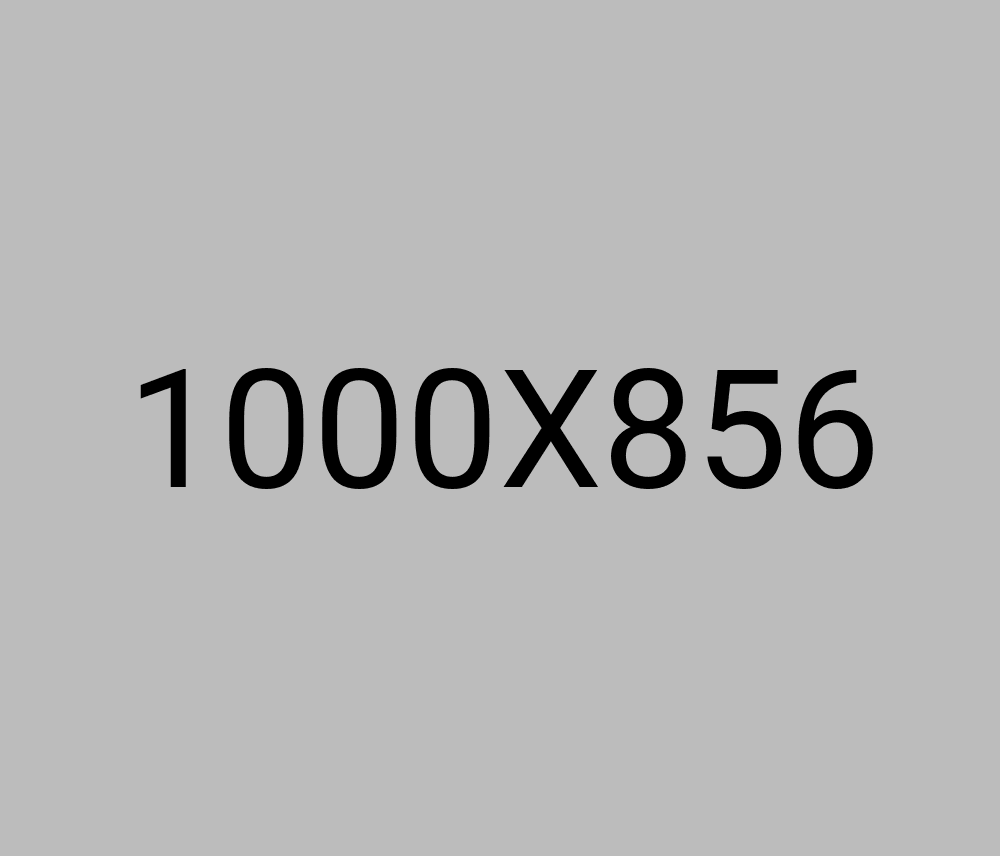
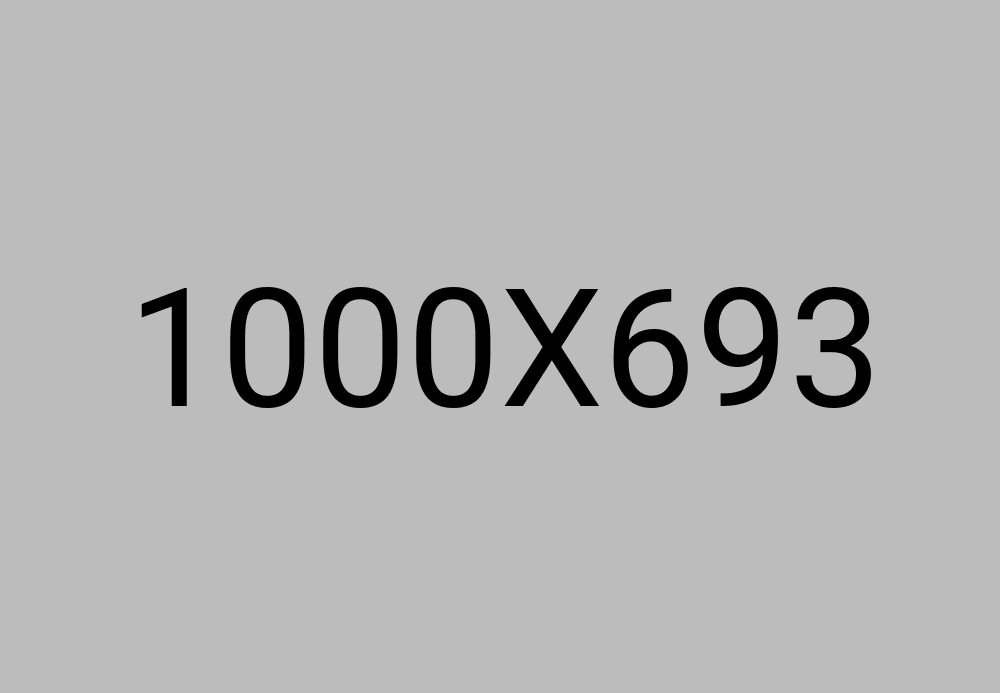
Add DB migration to rescue broken map pins with a valid image

Changed region(s): [[0.217, 0.3939, 0.868, 0.6061], [0.124, 0.4242, 0.186, 0.4848], [0.155, 0.5455, 0.186, 0.6061]]

diff --git a/server.js b/server.js
@@ -333,6 +333,26 @@ async function initDatabases() {
           await panlePool.query('INSERT INTO map_pins (title, description, image_path, lat, lng) VALUES (?, ?, ?, ?, ?)', pin);
         }
       }
+
+      // Migrate any broken pins pointing to deleted ephemeral uploads
+      try {
+        const [oldPins] = await panlePool.query('SELECT * FROM map_pins WHERE image_path LIKE "pannl/uploads/%"');
+        if (oldPins.length > 0) {
+          const fs = require('fs');
+          const path = require('path');
+          const sharp = require('sharp');
+          const fallbackImg = path.join(__dirname, 'assets', 'images', 'about.jpg');
+          if (fs.existsSync(fallbackImg)) {
+            const buffer = await sharp(fallbackImg).resize(800, 600, {fit: 'cover'}).jpeg({quality: 90}).toBuffer();
+            const base64Data = buffer.toString('base64');
+            const dbPath = `data:image/jpeg;base64,${base64Data}`;
+            await panlePool.query('UPDATE map_pins SET image_path = ? WHERE image_path LIKE "pannl/uploads/%"', [dbPath]);
+            console.log('Successfully migrated broken pins to Base64.');
+          }
+        }
+      } catch (e) {
+        console.error('Migration error:', e);
+      }
     
     // Ensure existing table structure is migrated to TEXT
     try {